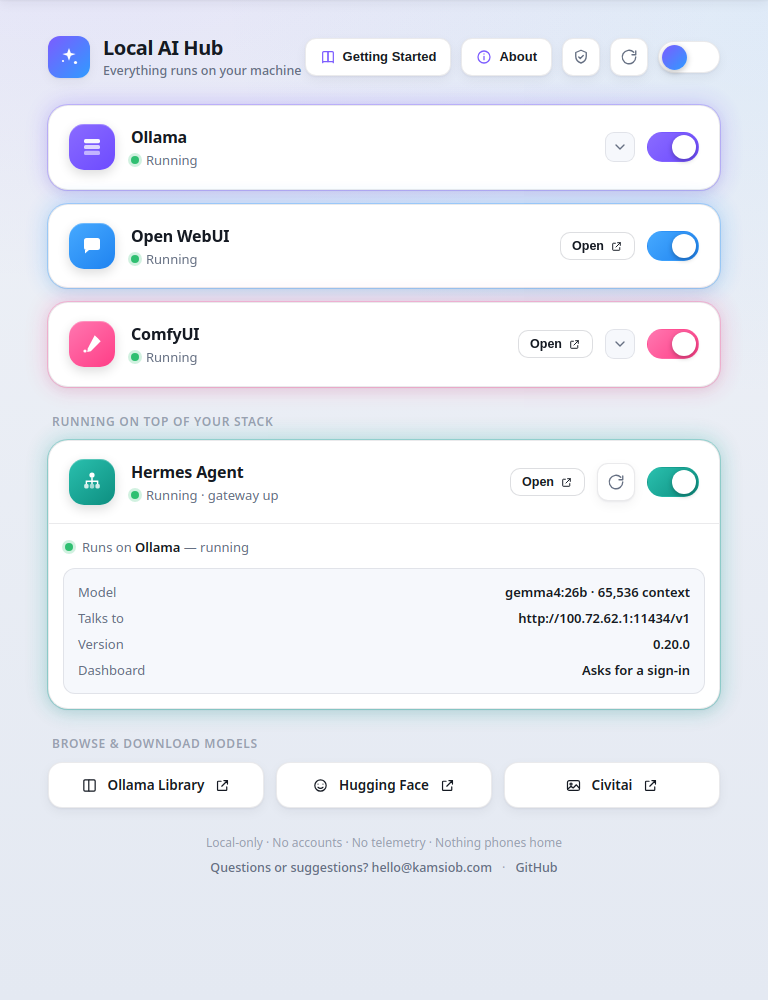
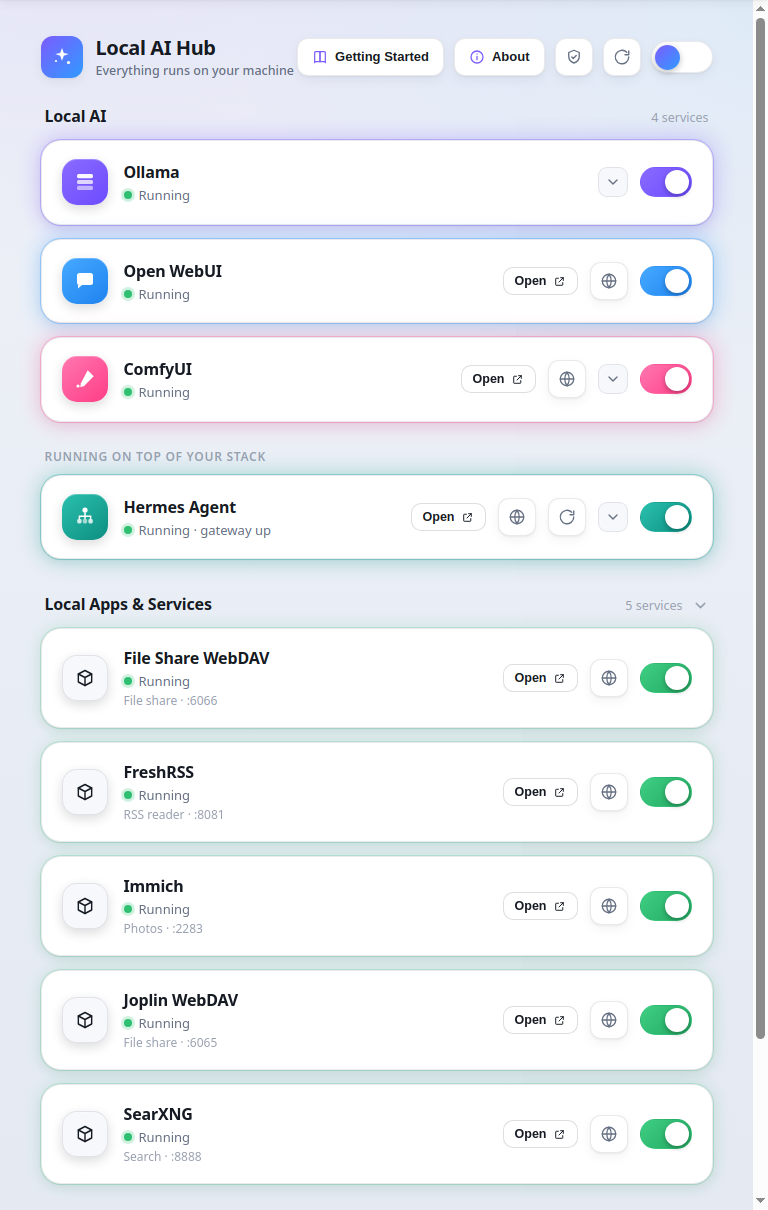
Release 1.3.0: docs, guide and screenshots for the wider scope
1.3.0 rather than 1.2.2 or 2.0.0: address detection, generic service discovery
and the two-group layout are additive, and nothing about the existing services,
units or config changed.

The guide gains two sections written for the confusion each feature exists to
remove: what does and doesn't show up under Local Apps & Services (and why a
toolbox container doesn't), and which address works from where — including the
plain warning that a LAN address is reachable by everything else on that
network, which is the part people find out later.

Screenshots regenerated for both themes plus a narrow one, since the phone width
is where the address feature earns its place.

diff --git a/hub/guide.py b/hub/guide.py
@@ -216,6 +216,30 @@ GUIDE = {
                     ],
                 },
                 {
+                    "id": "apps",
+                    "title": "Your other self-hosted services",
+                    "blocks": [
+                        {"type": "p", "text": "Below the AI stack, Local AI Hub lists whatever else you self-host, under \"Local Apps & Services\". You don't configure this and there's no list of supported apps — it asks Podman what's actually running."},
+                        {"type": "h", "text": "What shows up, and what doesn't"},
+                        {"type": "p", "text": "A container appears when two things are true: Podman Quadlet generated it (which is what gives it a systemd unit the app can start and stop), and it publishes at least one port. That second rule is why a toolbox or a container you started by hand with `podman run` stays out — there's nothing to open and nothing to check for life."},
+                        {"type": "p", "text": "A pod shows as one entry, not one per container. Immich is five containers behind a single port; five cards for one app would be noise."},
+                        {"type": "note", "text": "Recognised services get a proper name and category. Anything the app doesn't recognise is shown by its container name and port rather than guessed at — honest and usually what you called it anyway."},
+                        {"type": "h", "text": "Running status means running, not \"exists\""},
+                        {"type": "p", "text": "The status dot comes from an actual request to the address the port is published on, the same treatment the AI services get. A container can be up while the thing inside it is broken, and the app will say so rather than show a green light."},
+                    ],
+                },
+                {
+                    "id": "addresses",
+                    "title": "Which address works from where",
+                    "blocks": [
+                        {"type": "p", "text": "127.0.0.1 means \"this computer\". It's the right address for the Open button and completely useless typed into your phone — which is the single most common confusion with self-hosted services."},
+                        {"type": "p", "text": "Each service with a web interface has a globe button that folds out every address it's reachable at, with a sentence about where each one works:"},
+                        {"type": "p", "text": "• 127.0.0.1 — only on this computer.\n• A 192.168.x.x / 10.x.x.x / 172.16-31.x.x address — other devices on the same network. Use this one on your phone at home.\n• A 100.x address or a MagicDNS name — your devices anywhere, over Tailscale. This one keeps working away from home."},
+                        {"type": "p", "text": "The app detects these rather than asking you to configure anything, and shows only what genuinely exists. No LAN address detected means none is shown."},
+                        {"type": "warn", "text": "A service reachable on your LAN is reachable by everything else on that network. That is what makes it useful from the sofa and what makes it worth thinking about on a network you don't control. Tailscale is the private option: only your own devices, wherever they are."},
+                    ],
+                },
+                {
                     "id": "troubleshooting",
                     "title": "Troubleshooting",
                     "blocks": [

diff --git a/hub/__init__.py b/hub/__init__.py
@@ -1,3 +1,3 @@
 """local-ai-hub — backend package for controlling local AI services."""
 
-__version__ = "1.2.1"
+__version__ = "1.3.0"

diff --git a/README.md b/README.md
@@ -1,10 +1,13 @@
 <h1 align="center">Local AI Hub</h1>
 
 <p align="center">
-  A premium desktop control panel for the AI services running <b>locally</b> on your machine —
-  <a href="https://ollama.com">Ollama</a>, <a href="https://openwebui.com">Open&nbsp;WebUI</a>,
-  and <a href="https://github.com/comfyanonymous/ComfyUI">ComfyUI</a>.
-  Start/stop each service, watch live status, and manage models — all from one place.
+  A desktop control panel for what you self-host on your own machine.
+  <b>Local AI</b> first — <a href="https://ollama.com">Ollama</a>,
+  <a href="https://openwebui.com">Open&nbsp;WebUI</a>,
+  <a href="https://github.com/comfyanonymous/ComfyUI">ComfyUI</a>, and agent harnesses on top —
+  and below it <b>Local Apps &amp; Services</b>, whatever else you run in rootless Podman,
+  found automatically. Start/stop each one, watch live status, manage models,
+  and see the address that actually works from your phone.
 </p>
 
 <p align="center">
@@ -15,9 +18,14 @@
 </p>
 
 <p align="center">
-  <img src="assets/screenshot-dark.png" alt="Local AI Hub — dark theme" width="380">
+  <img src="assets/screenshot-dark.png" alt="Local AI Hub — dark theme, showing the Local AI and Local Apps &amp; Services groups" width="380">
   &nbsp;
-  <img src="assets/screenshot-light.png" alt="Local AI Hub — light theme" width="380">
+  <img src="assets/screenshot-light.png" alt="Local AI Hub — light theme, showing the Local AI and Local Apps &amp; Services groups" width="380">
+</p>
+<p align="center">
+  <img src="assets/screenshot-narrow.png" alt="Local AI Hub at a narrow window width" width="240">
+  <br>
+  <sub>The stacked layout at a narrow width — the same place the LAN and Tailscale addresses matter most.</sub>
 </p>
 
 > **Everything stays local. No accounts, no telemetry, no analytics, nothing phones home.**
@@ -46,8 +54,11 @@ full manual walkthrough (every command verified against a working machine).
 
 ## ✨ Features
 
-- **One toggle per service** — start/stop Ollama, Open WebUI, ComfyUI (systemd `--user`), live status.
+- **Two clear groups** — **Local AI** on top (the tools this app is about), **Local Apps & Services** below. The second group collapses, and starts collapsed past six services, so a big homelab never buries the AI stack.
+- **Your other self-hosted services, found automatically** — the app asks Podman what's actually running rather than checking a list of supported names, so your Jellyfin or Nextcloud shows up the same way. Well-known services get a proper label; anything else is shown honestly by container name and port. Pods collapse to one entry, and containers you ran by hand stay out.
+- **One toggle per service** — start/stop anything in either group (systemd `--user`), live status from a real liveness check, not just "the container exists".
 - **Open in browser** — one click to each running web UI, always via `127.0.0.1` (never `localhost`).
+- **Reachable at** — the address that works from your *phone*. The app detects what this machine actually has (LAN, Tailscale with its MagicDNS name) and shows each one with a plain-language note about where it works. Nothing is invented; undetected means not shown.
 - **Ollama model manager** — installed models with size, an **in-memory vs on-disk** badge, and a real `ollama pull` **Update**.
 - **ComfyUI model manager** — lists what's in your model folders by type; **install** new models from a Hugging Face / Civitai / direct link (download → verify → filed in the right folder); per-model **Update** once a source is set.
 - **Setup Check** — one panel that verifies the iGPU flags, the Open WebUI Quadlet, the gfx1151 ROCm build, and the GGUF node — with safe one-click fixes.
@@ -82,6 +93,8 @@ entry that runs the app through the venv — double-clicking just works.
 - **Backend** — `hub/services/` controls each service via `systemctl --user` + HTTP probes; Ollama uses its REST API, ComfyUI model provenance/updates live in `hub/services/comfy_models.py`. Stdlib only.
 - **Layers** — `hub/layers/` holds harnesses that run on top of a base service. A `Layer` is a `Service` plus the key of what it depends on, so control and status are inherited; adding another harness means a subclass and one line in `LAYER_CLASSES`.
 - **Change detection** — `hub/services/watch.py` reconciles on systemd D-Bus signals and inotify rather than polling for installs.
+- **Discovery** — `hub/services/containers.py` enumerates rootless Podman containers, keyed on the `PODMAN_SYSTEMD_UNIT` label Quadlet writes; that label is also what start/stop uses, so discovered services go through the same `Service` class (and the same Flatpak D-Bus path) as everything else.
+- **Addresses** — `hub/addresses.py` reads interfaces through an ioctl over the stdlib rather than shelling out to `ip`, so it works with no external binary.
 - **Adapting to another machine** — service unit names and ports are in `hub/services/*.py` (`unit=` / `health_url=`).
 
 ## 📄 License

diff --git a/docs/GETTING_STARTED.md b/docs/GETTING_STARTED.md
@@ -311,6 +311,36 @@ If Hermes is only published on a remote address (a Tailscale IP, say), nothing a
 
 > ℹ **Note:** Hermes keeps the model and context it's pointed at inside its own container volume, which is readable only by the container's user. The app reads it through podman, so that one detail is unavailable in the sandboxed Flatpak build — it says so in place instead of showing a blank.
 
+### Your other self-hosted services
+
+Below the AI stack, Local AI Hub lists whatever else you self-host, under "Local Apps & Services". You don't configure this and there's no list of supported apps — it asks Podman what's actually running.
+
+#### What shows up, and what doesn't
+
+A container appears when two things are true: Podman Quadlet generated it (which is what gives it a systemd unit the app can start and stop), and it publishes at least one port. That second rule is why a toolbox or a container you started by hand with `podman run` stays out — there's nothing to open and nothing to check for life.
+
+A pod shows as one entry, not one per container. Immich is five containers behind a single port; five cards for one app would be noise.
+
+> ℹ **Note:** Recognised services get a proper name and category. Anything the app doesn't recognise is shown by its container name and port rather than guessed at — honest and usually what you called it anyway.
+
+#### Running status means running, not "exists"
+
+The status dot comes from an actual request to the address the port is published on, the same treatment the AI services get. A container can be up while the thing inside it is broken, and the app will say so rather than show a green light.
+
+### Which address works from where
+
+127.0.0.1 means "this computer". It's the right address for the Open button and completely useless typed into your phone — which is the single most common confusion with self-hosted services.
+
+Each service with a web interface has a globe button that folds out every address it's reachable at, with a sentence about where each one works:
+
+- 127.0.0.1 — only on this computer.
+- A 192.168.x.x / 10.x.x.x / 172.16-31.x.x address — other devices on the same network. Use this one on your phone at home.
+- A 100.x address or a MagicDNS name — your devices anywhere, over Tailscale. This one keeps working away from home.
+
+The app detects these rather than asking you to configure anything, and shows only what genuinely exists. No LAN address detected means none is shown.
+
+> ⚠ **Watch out:** A service reachable on your LAN is reachable by everything else on that network. That is what makes it useful from the sofa and what makes it worth thinking about on a network you don't control. Tailscale is the private option: only your own devices, wherever they are.
+
 ### Troubleshooting
 
 The exact errors hit while building this the first time, so you can pattern-match instead of debugging blind.

diff --git a/CHANGELOG.md b/CHANGELOG.md
@@ -5,6 +5,36 @@ All notable changes to Local AI Hub are documented here.
 The format is based on [Keep a Changelog](https://keepachangelog.com/en/1.1.0/),
 and this project follows [Semantic Versioning](https://semver.org/spec/v2.0.0.html).
 
+## [1.3.0] — 2026-08-10
+
+### Added
+- **Smart address detection.** The app now knows which addresses this machine
+  can actually be reached on — loopback always, a private-range LAN address if
+  one exists, and a `100.64.0.0/10` address plus its MagicDNS name when
+  Tailscale is up — and shows them per service under **Reachable at**, each with
+  a plain sentence about where it works. "Open" still uses `127.0.0.1`, which is
+  the right answer on this machine. Nothing is invented: an address that isn't
+  detected isn't shown. Interfaces are read over the stdlib rather than by
+  shelling out to `ip`.
+- **Local Apps & Services.** Whatever else you self-host in rootless Podman is
+  found generically, with no list of supported names — a container counts when
+  Quadlet has stamped it with a `PODMAN_SYSTEMD_UNIT` label and it publishes a
+  port. Well-known services get a proper label, anything else is shown by
+  container name and port, pods collapse to a single entry, and containers you
+  ran by hand stay out. Status is a real liveness check against the address the
+  port is published on, and start/stop goes through the same systemd path as the
+  AI stack. They appear and disappear live, via the existing watcher.
+- **Two groups.** "Local AI" on top, "Local Apps & Services" below, stacked and
+  separated by spacing rather than rules. The second group collapses and starts
+  collapsed past six services, so a large homelab doesn't bury the AI tools.
+  An empty second group is hidden entirely; a build that *cannot* look for them
+  says so instead.
+
+### Changed
+- The Hermes card folds to a single line, with the same chevron the model lists
+  use. Its details are there when you want them and out of the way when you
+  don't.
+
 ## [1.2.1] — 2026-08-10
 
 ### Fixed
@@ -123,6 +153,7 @@ WebUI, and ComfyUI — built and verified on Bazzite with AMD Strix Halo hardwar
 - **Distribution** — a portable AppImage and a standalone (no-Python) build, plus
   a Flatpak that controls the host systemd services over D-Bus inside the sandbox.
 
+[1.3.0]: https://github.com/kamsiob/LocalAIHub/releases/tag/v1.3.0
 [1.2.1]: https://github.com/kamsiob/LocalAIHub/releases/tag/v1.2.1
 [1.2.0]: https://github.com/kamsiob/LocalAIHub/releases/tag/v1.2.0
 [1.1.0]: https://github.com/kamsiob/LocalAIHub/releases/tag/v1.1.0
